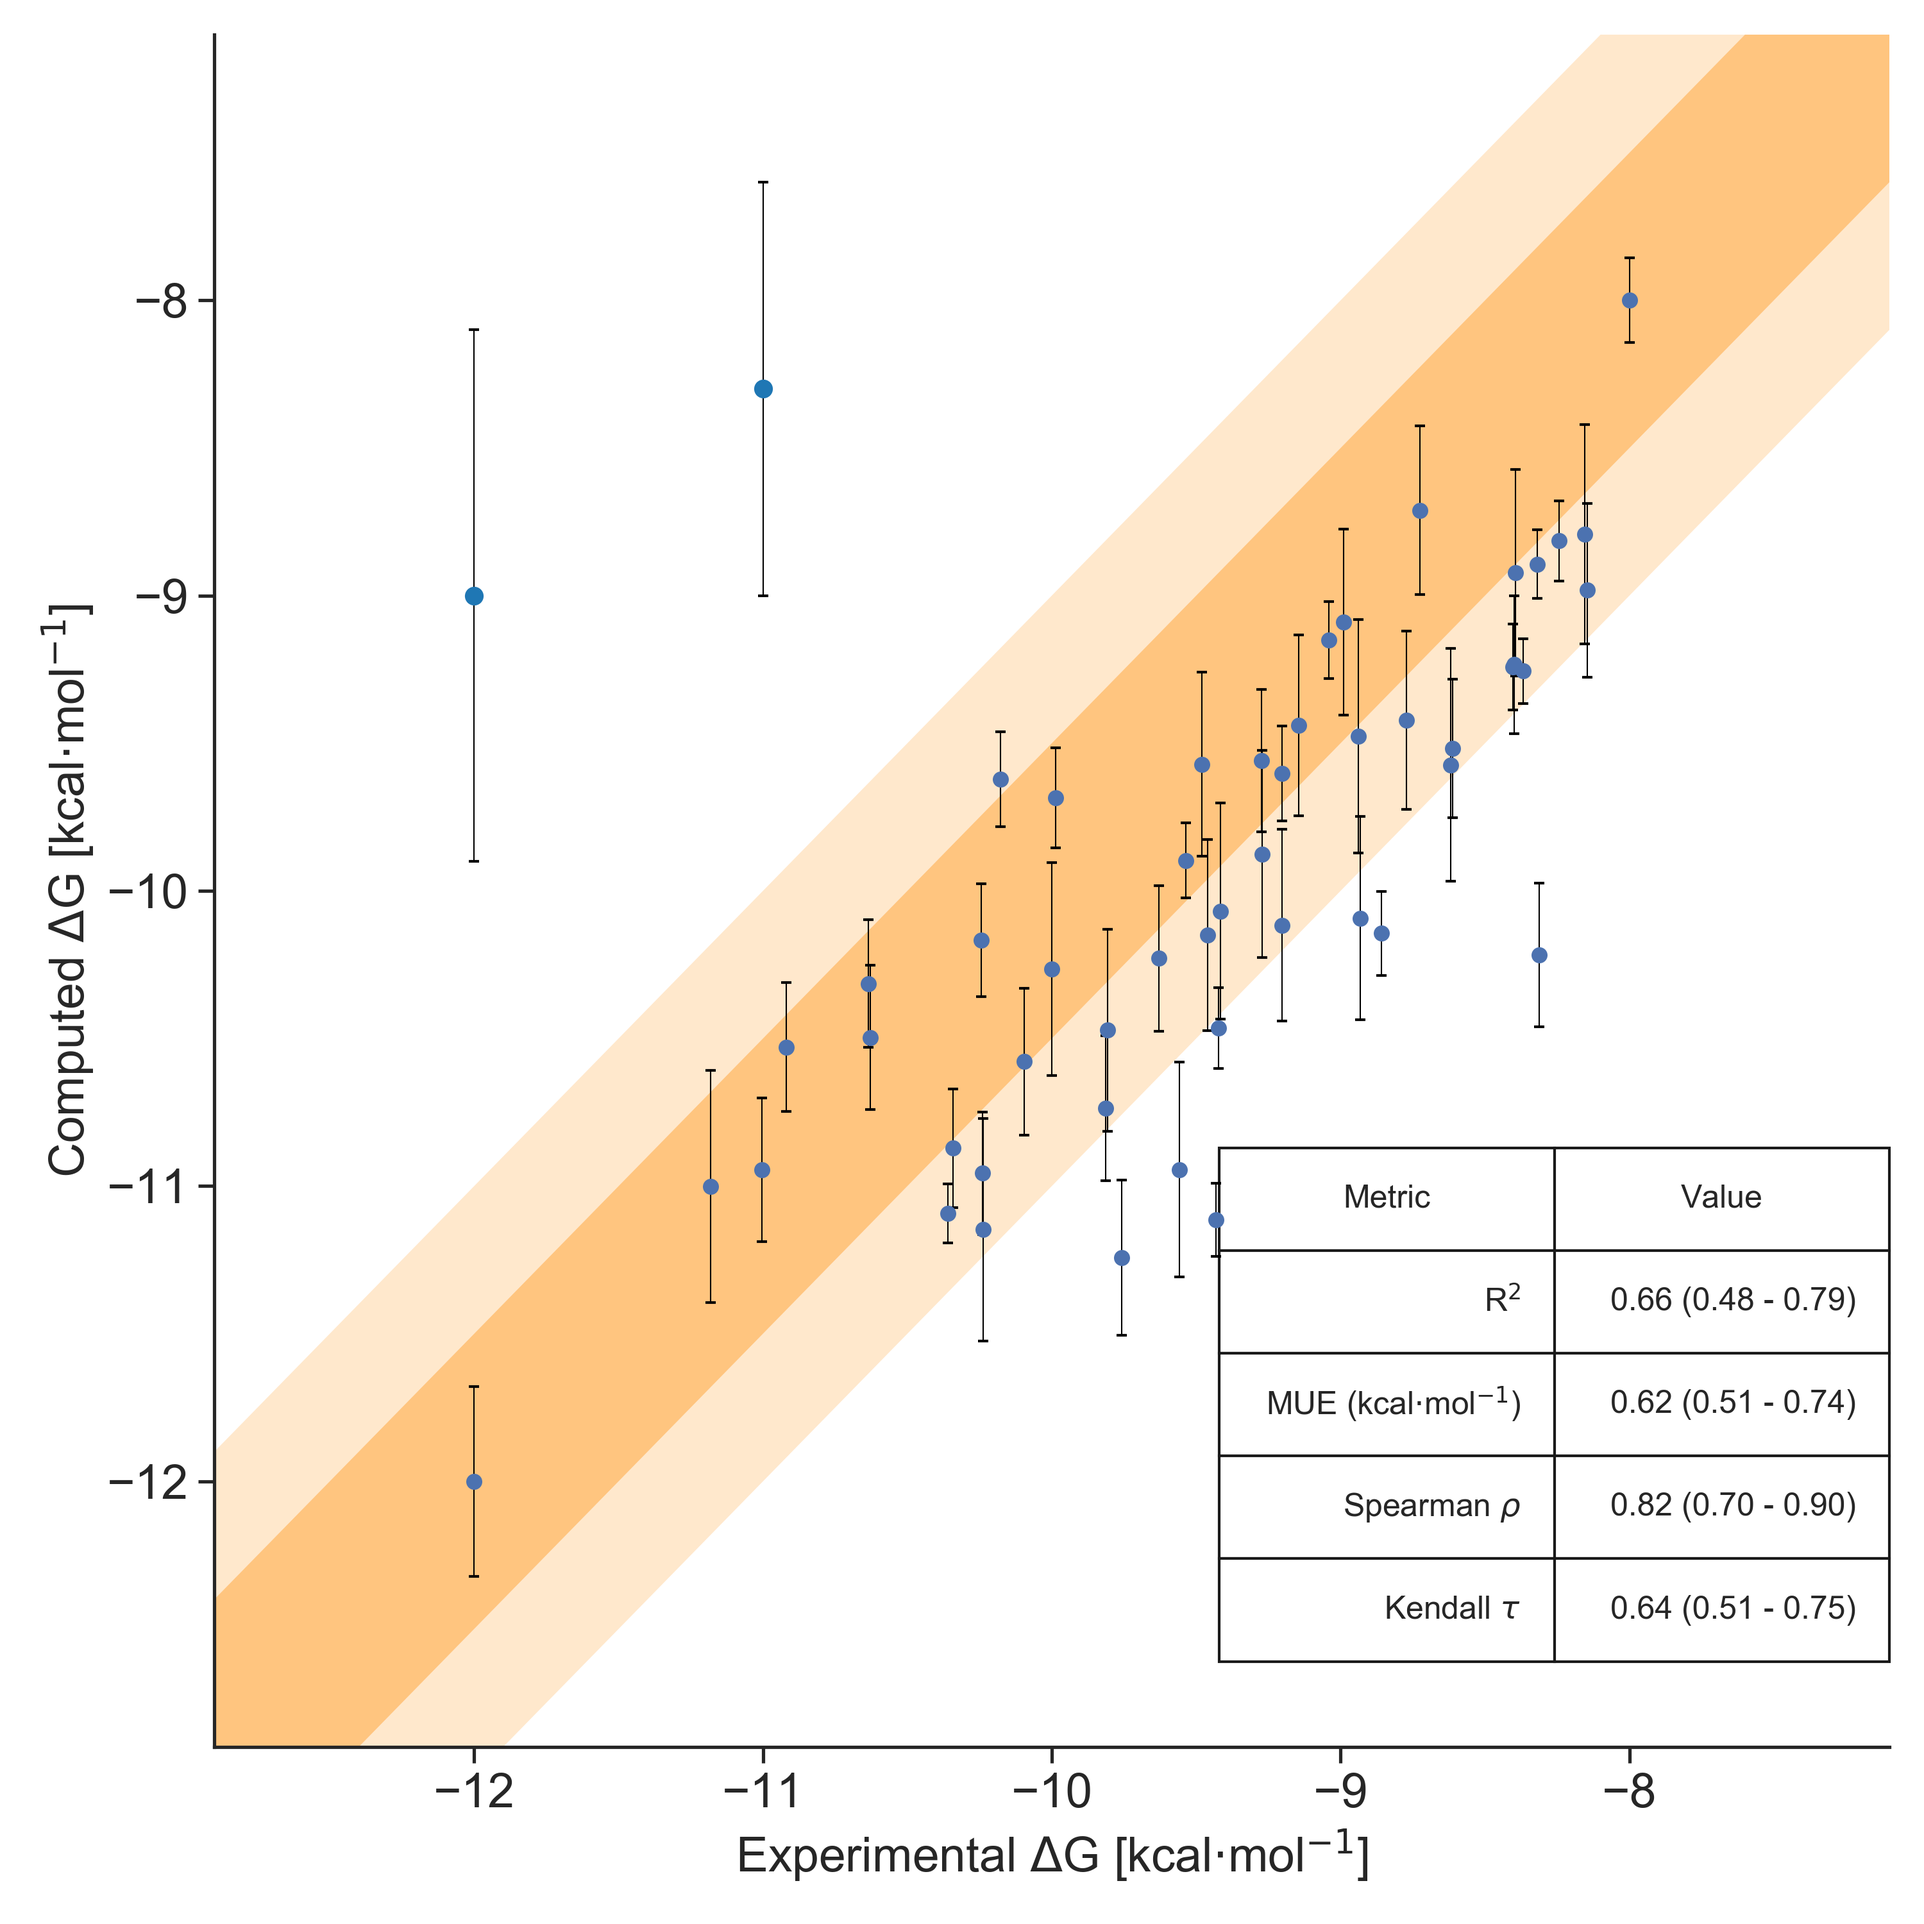
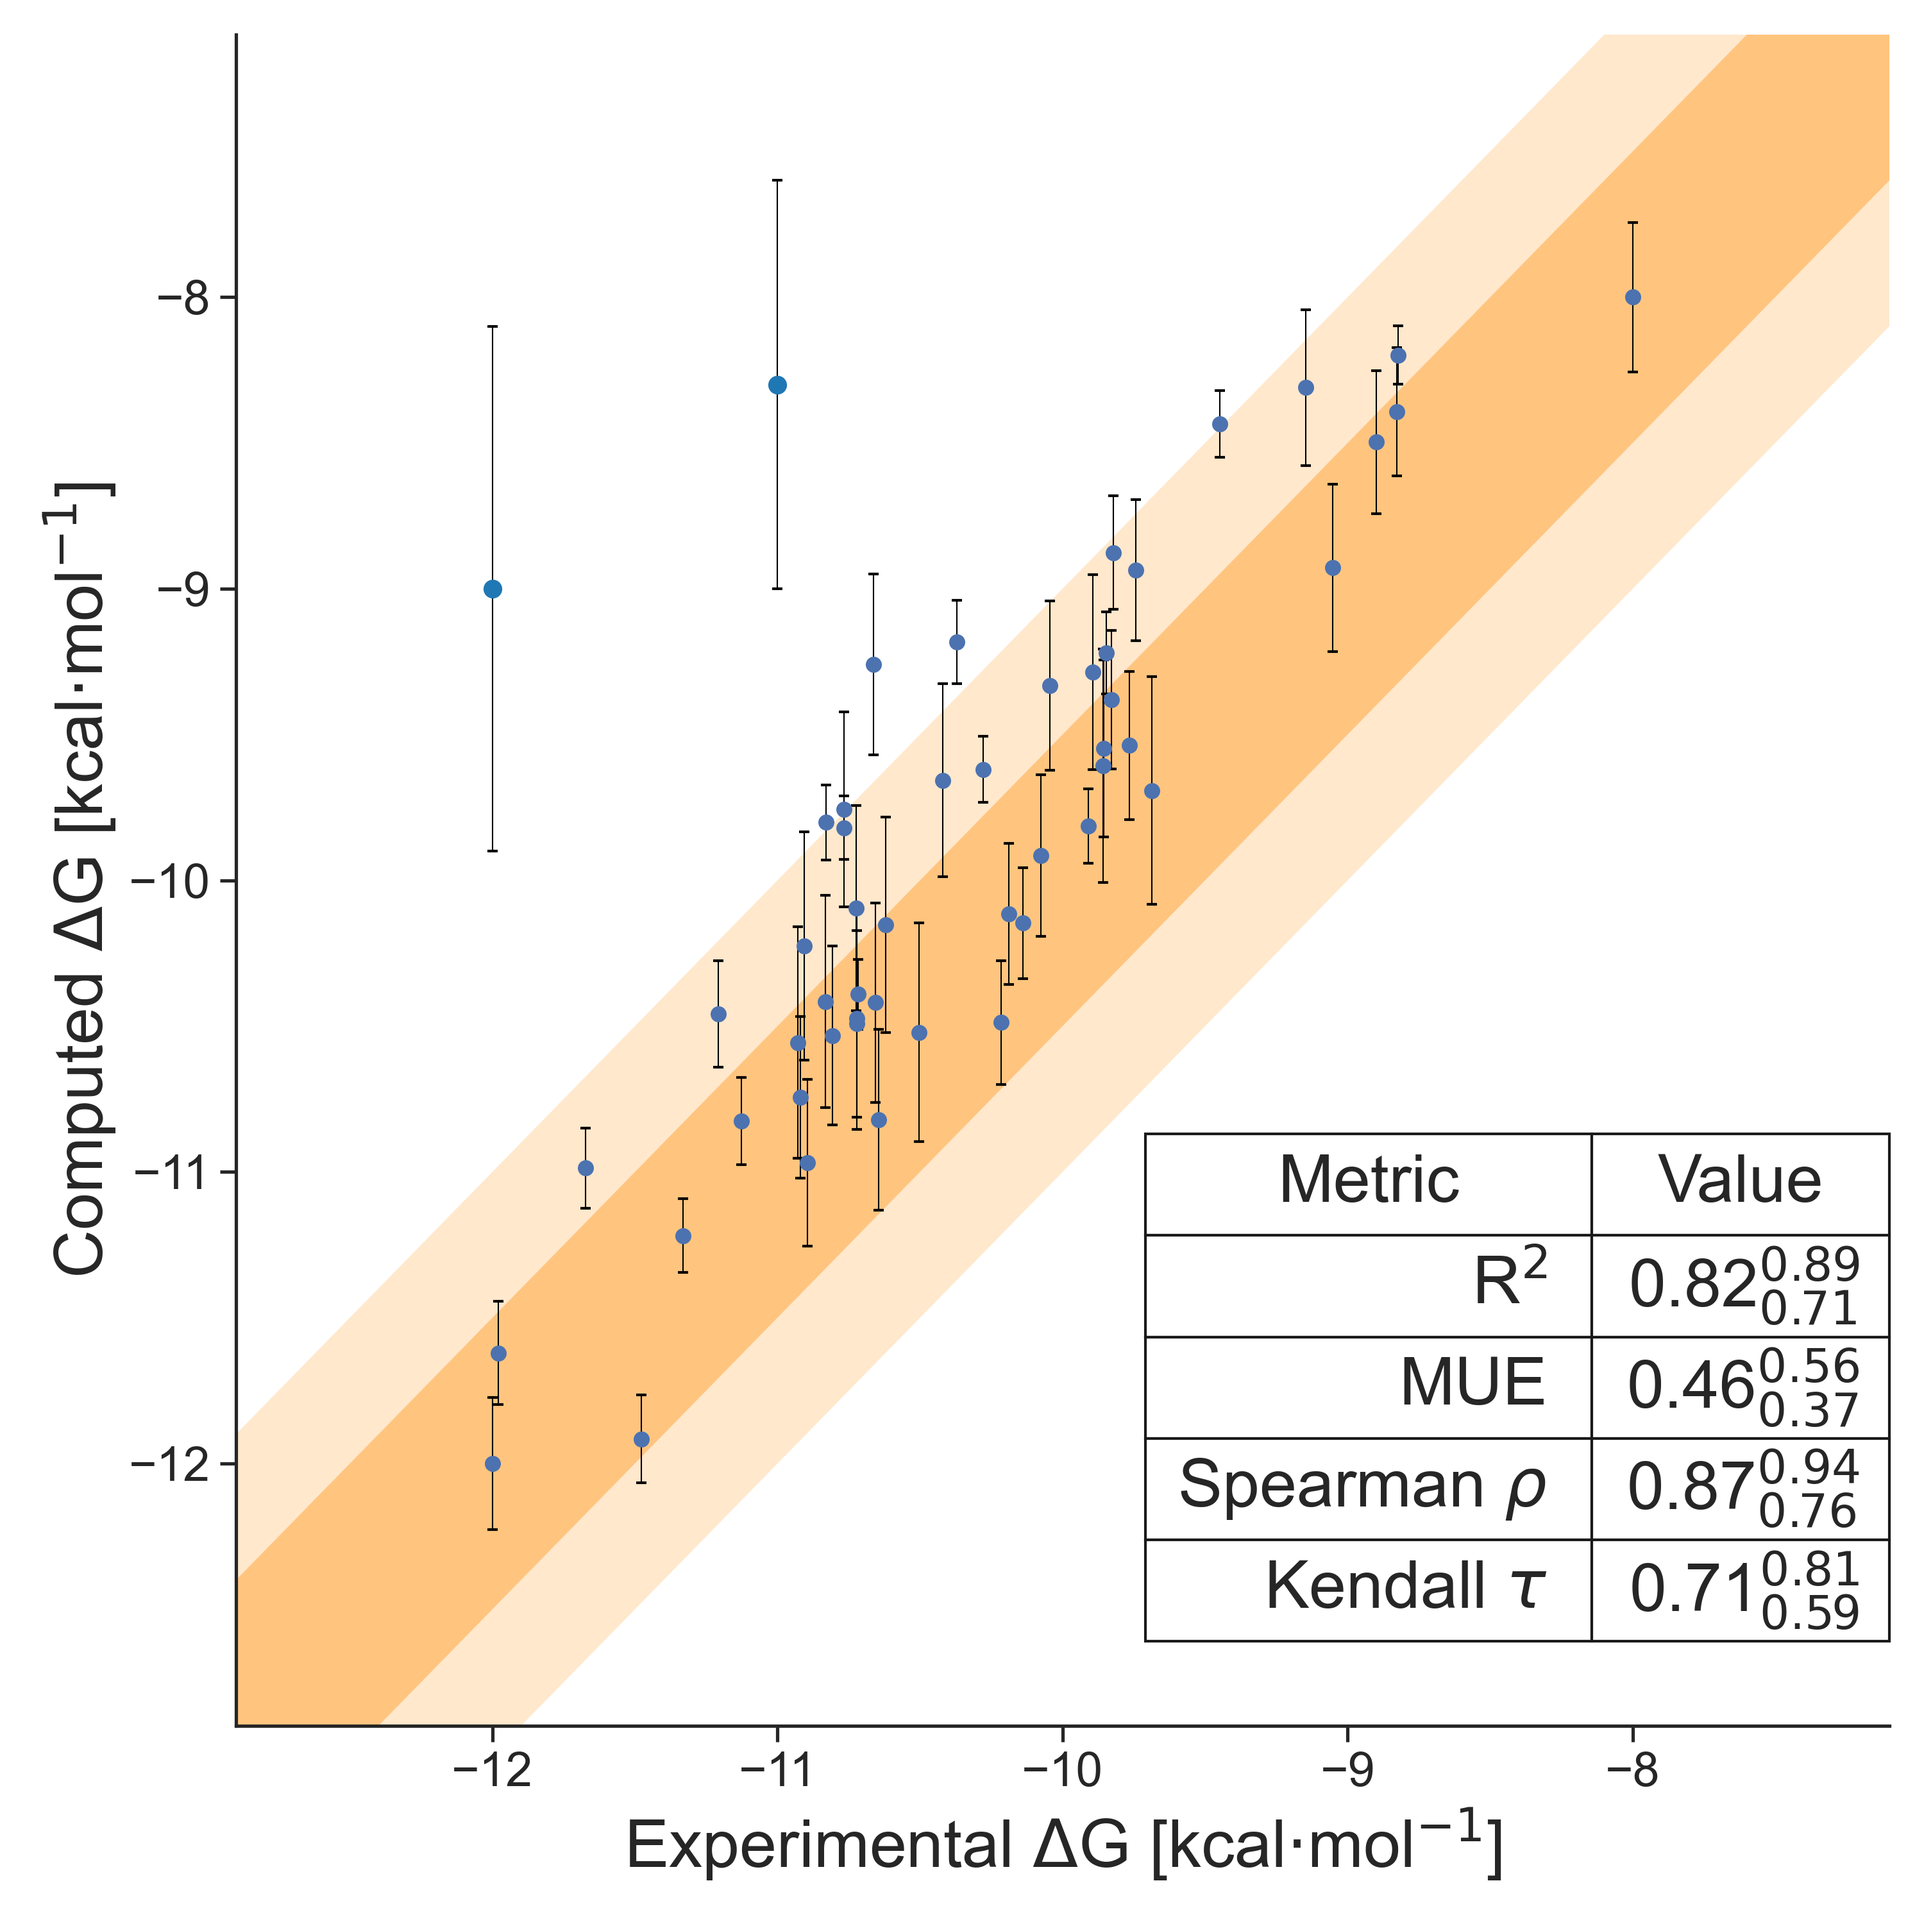
increasing fontsize

diff --git a/paper/figures/fig13_analysis_practices/gen_plots.py b/paper/figures/fig13_analysis_practices/gen_plots.py
@@ -148,28 +148,28 @@ def boostrap_statistic(x_data, y_data, n = 10000):
 stats = boostrap_statistic(x_data_raw, y_data_raw)
 
 df = pd.DataFrame(np.array([
-							[r"R$^2$", "{:.2f} ({:.2f} - {:.2f})".format(stats['r2']['real'],stats['r2']['low'], stats['r2']['high'])],
-							[r"MUE (kcal$\cdot$mol$^{-1}$)", "{:.2f} ({:.2f} - {:.2f})".format(stats['mue']['real'],stats['mue']['low'], stats['mue']['high'])],
-							[r"Spearman $\rho$", "{:.2f} ({:.2f} - {:.2f})".format(stats['rho']['real'],stats['rho']['low'], stats['rho']['high'])],
-							[r"Kendall $\tau$", "{:.2f} ({:.2f} - {:.2f})".format(stats['tau']['real'],stats['tau']['low'], stats['tau']['high'])],
+							[r"R$^2$", f"{stats['r2']['real']:.2f}$^{{{stats['r2']['high']:.2f}}}_{{{stats['r2']['low']:.2f}}}$"],
+							["MUE", f"{stats['mue']['real']:.2f}$^{{{stats['mue']['high']:.2f}}}_{{{stats['mue']['low']:.2f}}}$"],
+							[r"Spearman $\rho$", f"{stats['rho']['real']:.2f}$^{{{stats['rho']['high']:.2f}}}_{{{stats['rho']['low']:.2f}}}$"],
+							[r"Kendall $\tau$", f"{stats['tau']['real']:.2f}$^{{{stats['tau']['high']:.2f}}}_{{{stats['tau']['low']:.2f}}}$"]
 							]),
 				columns=["Metric", "Value"])
 
 table = plt.table(cellText=df.values, colLabels=df.columns, 
-				bbox=[0.6,0.05, 0.4,0.3], 
-				colWidths=[0.5, 0.5],
+				bbox=[0.55,0.05, 0.45,0.3], 
+				colWidths=[0.3, 0.2],
 				zorder=-20)
 
 table.auto_set_font_size(False)
-table.set_fontsize(12)
-table.scale(1,1)
+table.set_fontsize(25)
+table.scale(1.,1.)
 
 # some final formatting:
 sns.despine()
 plt.xlim(-12.9, -7.1)
 plt.ylim(plt.xlim())
-plt.xlabel(r"Experimental $\Delta$G [kcal$\cdot$mol$^{-1}$]", fontsize=18)
-plt.ylabel(r"Computed $\Delta$G [kcal$\cdot$mol$^{-1}$]", fontsize=18)
+plt.xlabel(r"Experimental $\Delta$G [kcal$\cdot$mol$^{-1}$]", fontsize=25)
+plt.ylabel(r"Computed $\Delta$G [kcal$\cdot$mol$^{-1}$]", fontsize=25)
 plt.tight_layout()
 
 
@@ -179,8 +179,3 @@ plt.tight_layout()
 plt.savefig("Figure.png", dpi=300)
 
 plt.show()
-
-
-
-
-
